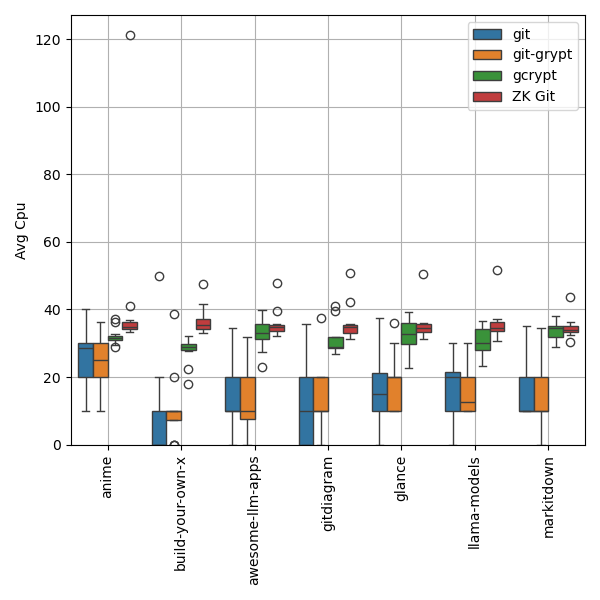
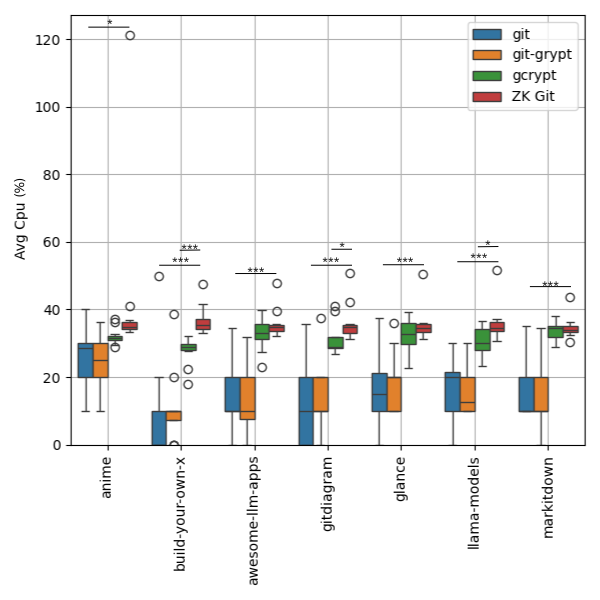
added significance levels to plots

diff --git a/git_tester.py b/git_tester.py
@@ -64,23 +64,27 @@ def load_existing_data():
 
         path = os.path.join(tmp_dir, filename)
 
-        match = re.match(r"(.+)_(.+)_round_(\d+).json", filename)
-        if match:
-            repo = match.group(1)
-            remote = match.group(2)
-        else:
-            LOGGER.warning(config.LOG_FILE_NOT_FOUND, filename)
-            continue
-
         with open(path, config.FILE_READ, encoding=config.FILE_UTF8) as f:
             entry = json.load(f)
 
-        if repo not in performance_data:
-            performance_data[repo] = {}
-        if remote not in performance_data[repo]:
-            performance_data[repo][remote] = []
+        if isinstance(entry, dict) and all(isinstance(v, dict) for v in entry.values()):
+            for repo, remotes in entry.items():
+                for remote, entries in remotes.items():
+                    if repo not in performance_data:
+                        performance_data[repo] = {}
+                    if remote not in performance_data[repo]:
+                        performance_data[repo][remote] = []
+                    performance_data[repo][remote].extend(entries)
+        else:
+            repo = entry.get(config.STATS_REPODIR, "unknown_repo")
+            remote = entry.get(config.STATS_REMOTE, "unknown_remote")
 
-        performance_data[repo][remote].append(entry)
+            if repo not in performance_data:
+                performance_data[repo] = {}
+            if remote not in performance_data[repo]:
+                performance_data[repo][remote] = []
+
+            performance_data[repo][remote].append(entry)
 
 
 def get_round_data_path(repo_dir, remote, round_entry):
@@ -273,7 +277,7 @@ def create_and_commit_file(directory, filename="random_file.bin", commit_msg="Ad
         with open(filepath, config.FILE_WRITE_BINARY) as f:
             f.write(os.urandom(1024 * 1024))
 
->        subprocess.run([config.GIT_GIT, config.GIT_ADD, "*"], check=True,
+        subprocess.run([config.GIT_GIT, config.GIT_ADD, "*"], check=True,
                         stdout=subprocess.DEVNULL, stderr=subprocess.DEVNULL)
         time.sleep(1)
 

diff --git a/config.py b/config.py
@@ -27,7 +27,7 @@ GIT_LOCK = "lock"
 GIT_UNLOCK = "unlock"
 
 # Test Configuration
-TEST_NUM_ROUNDS = 12
+TEST_NUM_ROUNDS = 2
 PID_TERMS = ["git", "gcrypt"]
 PID = "pid"
 CMDLINE = "cmdline"
